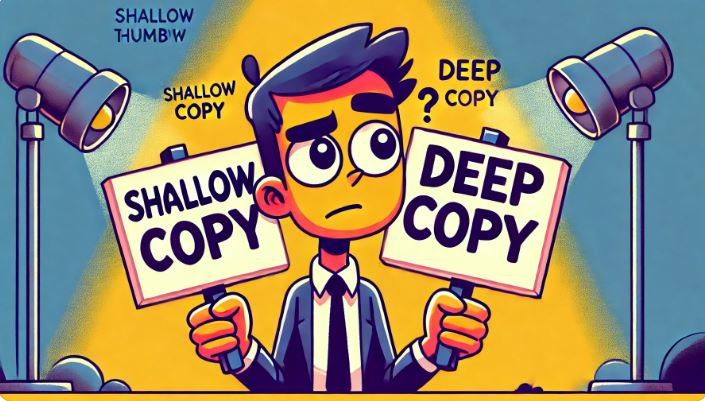
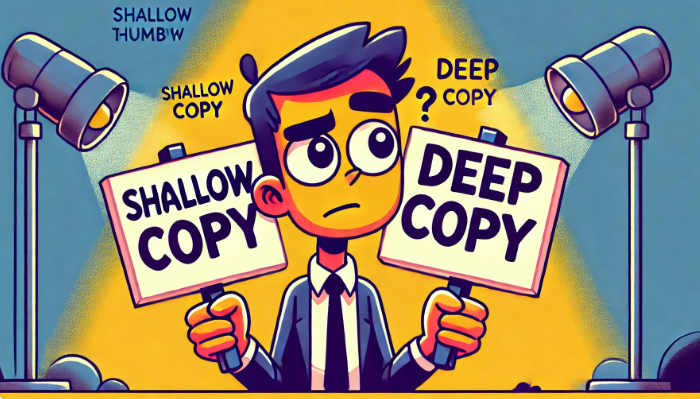
java copy update

diff --git a/_posts/2024-10-03-java-shallowcopy-deepcopy.md b/_posts/2024-10-03-java-shallowcopy-deepcopy.md
@@ -7,7 +7,7 @@ tags: [Study, Java, Shallow Copy, Deep copy]
 render_with_liquid: false
 pin: true
 image:
-  path: /assets/img/thumbnail/java-copy.jpg
+  path: /assets/img/thumbnail/java-copy.JPG
[1 lines of base64/hex data omitted]
   alt: What is a copy in Java?
 ---
